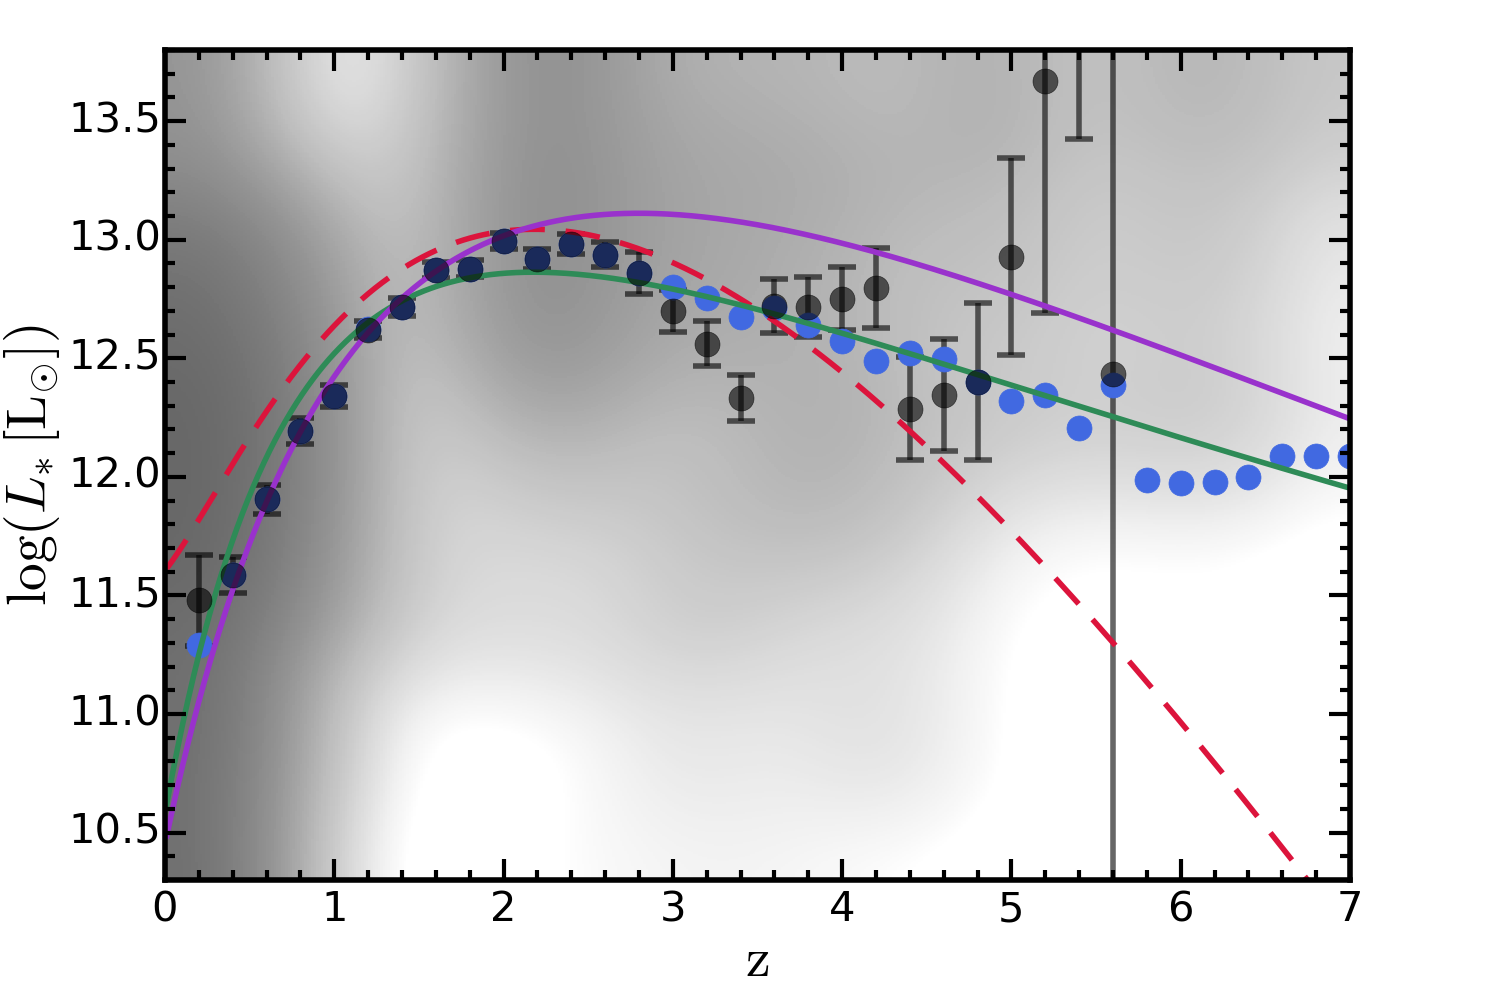
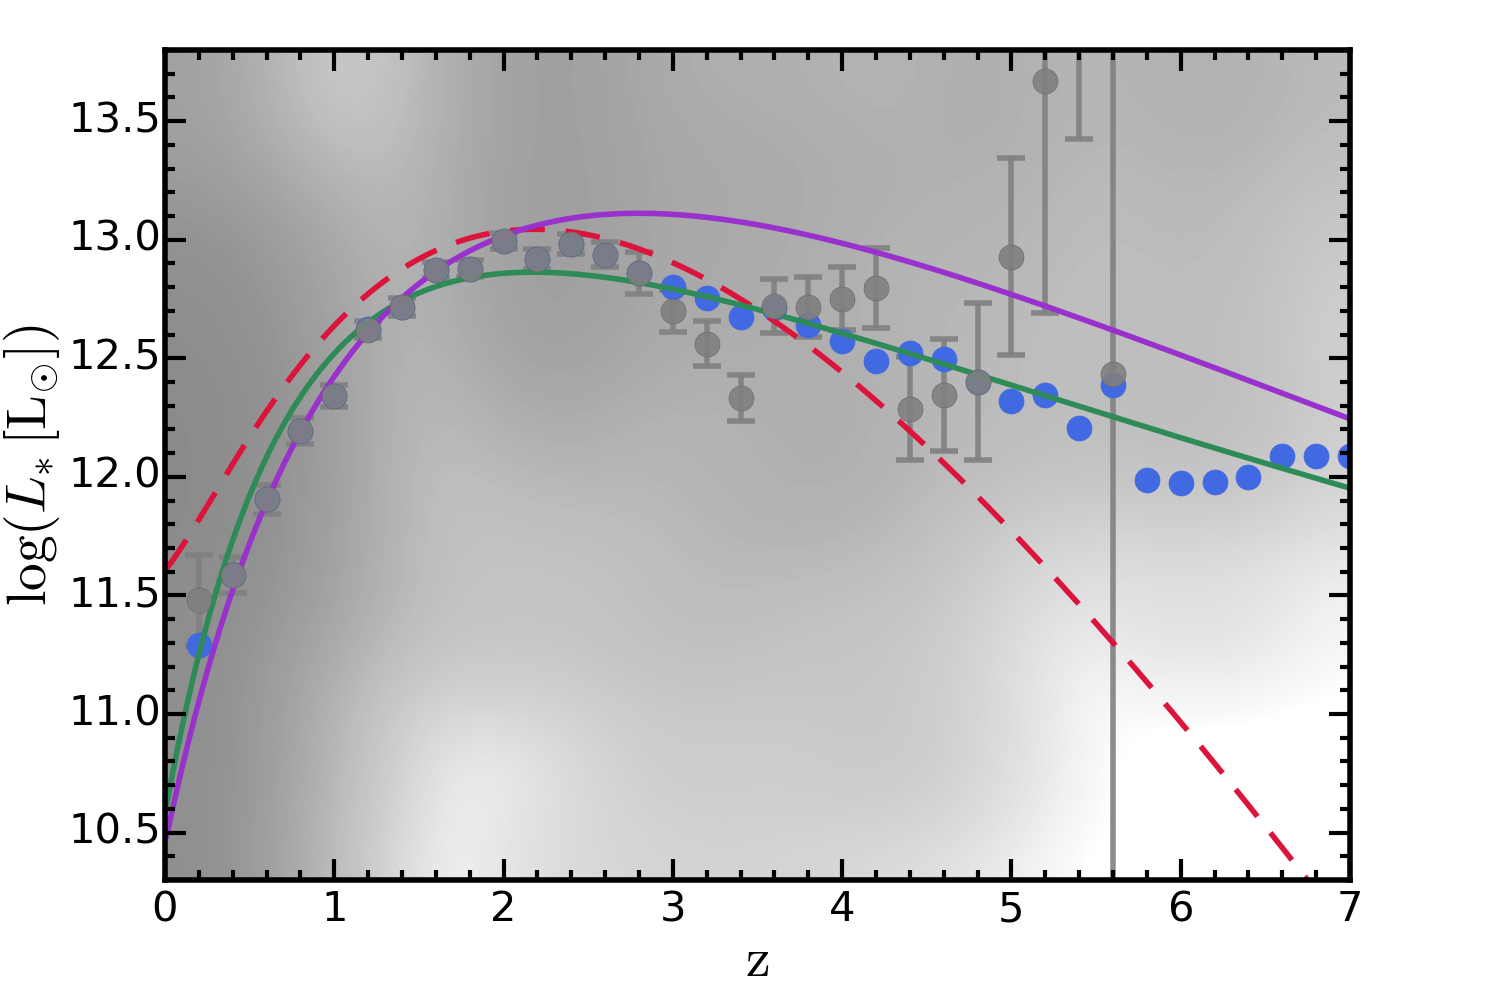
reg

diff --git a/plots/integrated_background/codes/plot.py b/plots/integrated_background/codes/plot.py
@@ -24,15 +24,15 @@ c_extenstion = CDLL(homepath+'codes/c_lib/convolve.so')
 convolve_c = c_extenstion.convolve
 convolve_c.restype = ctypes.POINTER(ctypes.c_double * N_bol_grid)
 ##############
-c_extenstion1 = CDLL(homepath+'codes/c_lib/specialuse/CTK_convolve.so')
+c_extenstion1 = CDLL(homepath+'codes/c_lib/specialuse/CTK_convolve.so')   #only convolve CTK objects
 convolve_c1 = c_extenstion1.convolve
 convolve_c1.restype = ctypes.POINTER(ctypes.c_double * N_bol_grid)
 
-c_extenstion2 = CDLL(homepath+'codes/c_lib/specialuse/CTNabs_convolve.so')
+c_extenstion2 = CDLL(homepath+'codes/c_lib/specialuse/CTNabs_convolve.so') #only convolve absorbed CTN objects
 convolve_c2 = c_extenstion2.convolve
 convolve_c2.restype = ctypes.POINTER(ctypes.c_double * N_bol_grid)
 
-c_extenstion3 = CDLL(homepath+'codes/c_lib/specialuse/CTNunabs_convolve.so')
+c_extenstion3 = CDLL(homepath+'codes/c_lib/specialuse/CTNunabs_convolve.so') #only convolve unabsorbed CTN objects
 convolve_c3 = c_extenstion3.convolve
 convolve_c3.restype = ctypes.POINTER(ctypes.c_double * N_bol_grid)
 ##############
@@ -77,7 +77,7 @@ def cumulative_emissivity(L_nu,Phi_nu,L_limit_low,L_limit_up,nu):
 		return np.power(10.,logphi(x))*np.power(10.,x)/nu
 
 	result = quad(emis, L_limit_low, L_limit_up)[0]*np.power(10.,L_solar)
-	#return romberg(emis, L_limit_low, L_limit_up, divmax=20)*np.power(10.,L_solar)
+	#result = romberg(emis, L_limit_low, L_limit_up, divmax=20)*np.power(10.,L_solar)
 	#if np.isfinite(result) == False:
 	#	print L_nu
 	#	print Phi_nu
@@ -113,7 +113,7 @@ zcenters = (zbins[1:]+zbins[:-1])/2.
 deltaz= zbins[5]-zbins[4]
 
 Intensity = np.zeros((len(E_list),4))
-unit_convertion = 1e-7/(1000.*con.e.value)
+unit_convertion = 1e-7/(1000.*con.e.value) #erg to keV
 
 for i in range(len(E_list)):
 	for j in range(len(convolver_list)):
@@ -135,10 +135,10 @@ ax.plot(E_list, nu_list * Intensity[:,2] * unit_convertion, '--', dashes=(25,15)
 ax.plot(E_list, nu_list * Intensity[:,3] * unit_convertion, '--', dashes=(25,15), c='deepskyblue', label=r'$\rm AGN$ ($\rm CTN,\,unabsorbed$)')
 
 data=np.genfromtxt("Hopkins2007.dat",names=["x","y"])
-ax.plot(data["x"],data["y"]+2.,'--',dashes=(25,15),c='gray',label=r'$\rm Hopkins+$ $\rm 2007$')
+ax.plot(data["x"],data["y"]+2.,'--',dashes=(25,15),c='crimson',label=r'$\rm Hopkins+$ $\rm 2007$')
 
 data=np.genfromtxt("ajello2008.dat",names=True)
-ax.errorbar(data['E'],data['CXB'],xerr=data['dE'],yerr=data['dCXB'],c='crimson',mec='crimson',capsize=0,capthick=0,linestyle='none',marker='.',lw=2,ms=1,label=r'$\rm Ajello+$ $\rm 2008$')
+ax.errorbar(data['E'],data['CXB'],xerr=data['dE'],yerr=data['dCXB'],c='gray',mec='gray',capsize=0,capthick=0,linestyle='none',marker='.',lw=2,ms=1,label=r'$\rm Ajello+$ $\rm 2008$')
 
 data=np.genfromtxt("churazov2007.dat",names=True)
 ax.errorbar(data['E'],data['CXB'],xerr=(data['E']-data['Elo'],data['Eup']-data['E']),yerr=(data['CXB']-data['lo'],data['up']-data['CXB']),c='seagreen',mec='seagreen',capsize=0,capthick=0,linestyle='none',marker='.',lw=2,ms=1,label=r'$\rm Churazov+$ $\rm 2007$')

diff --git a/codes/bolometric_correction/genensemble.py b/codes/bolometric_correction/genensemble.py
@@ -9,7 +9,7 @@ import matplotlib.pyplot as plt
 
 from scipy.stats import binned_statistic
 
-def returnIR_to_UV(sed2500, slope):
+def returnIR_to_UV(sed2500, slope): #generate the SED with an optical slope
 	data1=np.genfromtxt(datapath+"K13_SED.dat",names=["lognu","logall"],)
 	freq1=10**data1['lognu']
 	lamb1=con.c.value/(10**data1['lognu'])*1e10
@@ -30,8 +30,9 @@ def returnIR_to_UV(sed2500, slope):
 	sed1 = np.append( sed2_ir + scale, sed1)
 
 	sed1 = sed1[lamb1 > 1e4]
-	lamb1= lamb1[lamb1 > 1e4]
+	lamb1= lamb1[lamb1 > 1e4]  
 
+	# optical and UV SED is approximated by a broken power-law here
 	optical_slope = slope
 	lamb_op= np.linspace(1e4, 700., 100)
 	sed_op = sed1[-1] + (optical_slope-1) * (np.log10(lamb_op) - np.log10(lamb1[-1]))
@@ -41,7 +42,7 @@ def returnIR_to_UV(sed2500, slope):
 	
 	#UV construction
 	UV_end  =912.
-	UVslope =1.70
+	UVslope =1.70 #the EUV slope is fixed
 	
 	lamb1,sed1 = lamb1[lamb1>UV_end],sed1[lamb1>UV_end]
 	
@@ -57,12 +58,14 @@ def returnIR_to_UV(sed2500, slope):
 	return lamb1, sed1+totscale
 
 def returnXray(sed2500, gamma, alphaox_disp):
+	#generate the X-ray SED with a photon index gamma and assuming a deviation from the fiducial value of alpha_ox
 	f2500 = np.power(10.,sed2500)/(con.c.value/2500./1e-10)
 
 	alphaox = -0.107*np.log10(f2500) + 1.739 + alphaox_disp
 
 	f2kev=10**(alphaox/0.384)*f2500
-	
+
+	#interpolate between precalculated X-ray SEDs/ extrapolate if outside	
 	if (gamma<photon_index_list.max()) and (gamma>=photon_index_list.min()):
 		pup = photon_index_list[photon_index_list>gamma][0]
 		plo = photon_index_list[photon_index_list<=gamma][-1]
@@ -124,7 +127,7 @@ def returnall(sed2500, slope, gamma, alphaox_disp):
 
 	logL1450 = tophat( sedall, freqall, con.c.value/(1500e-10), con.c.value/(1400e-10))
 
-	logLIR = tophat( sedall, freqall, con.c.value/((15+1.)*1e-6), con.c.value/((15-1)*1e-6))
+	logLIR = tophat( sedall, freqall, con.c.value/((15+1.)*1e-6), con.c.value/((15-1.)*1e-6))
 
 	Lbol= integrate( sedall, freqall, con.c.value/(30.*1e-6), 500*1000.*con.e.value/con.h.value)
 	return  np.log10(Lbol), np.log10(LHX), np.log10(LSX), logLB, logL1450, logLIR
@@ -138,10 +141,10 @@ sigma_ox, ox_best = 0.1, 0
 np.random.seed(4367)
 Nsamples = 100000
 
-par1=np.random.normal(sl_best, sigma_sl, size=Nsamples)
-par2=np.random.normal(pi_best, sigma_pi, size=Nsamples)
-par3=np.random.normal(ox_best, sigma_ox, size=Nsamples)
-par5=np.random.uniform(-5,15,size=Nsamples)+L_solar
+par1=np.random.normal(sl_best, sigma_sl, size=Nsamples) #optical slope
+par2=np.random.normal(pi_best, sigma_pi, size=Nsamples) #photon index
+par3=np.random.normal(ox_best, sigma_ox, size=Nsamples) #alpha ox deviation
+par5=np.random.uniform(-5,15,size=Nsamples)+L_solar   #sed2500
 
 Lbols   = np.zeros( Nsamples )
 HXcorrs = np.zeros( Nsamples )

diff --git a/codes/bolometric_correction/calc_correction.py b/codes/bolometric_correction/calc_correction.py
@@ -7,7 +7,7 @@ from scipy.integrate import quad
 from scipy.interpolate import interp1d
 import matplotlib.pyplot as plt
 def returnIR_to_UV_H07(sed2500):
-	'''
+	''' # overlay optical SEDs with emission lines
 	data1=np.genfromtxt(datapath+"OpticalSED.dat",names=["lognu","logall"],)
 	lamb1=con.c.value/(10**data1['lognu'])*1e10
 	sed1 =data1['logall']
@@ -58,13 +58,13 @@ def returnXray_H07(sed2500):
 	sed3 = sed3 + scale
 	return lamb3[lamb3<50], sed3[lamb3<50]
 
-def returnIR_to_UV(sed2500):
+def returnIR_to_UV(sed2500):  #return the UV to IR SED
 	data1=np.genfromtxt(datapath+"K13_SED.dat",names=["lognu","logall"],)
 	freq1=10**data1['lognu']
 	lamb1=con.c.value/(10**data1['lognu'])*1e10
 	sed1 =data1['logall']
 	
-	#IR construction
+	#IR construction, using the R06 SED at the wavelengths beyond the coverage of K13
 	IR_end=lamb1[0]
 	data2=np.genfromtxt(datapath+"R06_SED.dat",names=["lognu","logall","sigall","blue"],)
 	lamb2=con.c.value/(10**data2['lognu'])*1e10
@@ -85,7 +85,7 @@ def returnIR_to_UV(sed2500):
 	lamb1,sed1 = lamb1[lamb1>UV_end],sed1[lamb1>UV_end]
 	
 	lambUV= np.linspace(UV_end, 600.,100)
-	sedUV = sed1[-1] + (UVslope-1) * (np.log10(lambUV) - np.log10(lamb1[-1]))
+	sedUV = sed1[-1] + (UVslope-1) * (np.log10(lambUV) - np.log10(lamb1[-1])) #extrapolate to EUV with a power-law
 	
 	lamb1= np.append( lamb1, lambUV)
 	sed1 = np.append( sed1 , sedUV)
@@ -95,13 +95,13 @@ def returnIR_to_UV(sed2500):
 
 	return lamb1, sed1+totscale
 
-def returnXray(sed2500):
+def returnXray(sed2500): #return the X-ray SED
 	f2500 = np.power(10.,sed2500)/(con.c.value/2500./1e-10)
 
 	#beta, C = 0.721, 4.531	
 	#A, Cprime = 0.384*(1-beta), 0.384*C
 	#alphaox = -A*np.log10(f2500)+Cprime
-	alphaox = -0.107*np.log10(f2500)+1.739
+	alphaox = -0.107*np.log10(f2500)+1.739 #fiducial model
 
 	f2kev=10**(alphaox/0.384)*f2500
 	data3=np.genfromtxt("xspec_lib/Xspec_1_9.dat",names=["E","f"],)	
@@ -162,7 +162,7 @@ def returnall(sed2500):
 
 	logL1450 = tophat( sedall, freqall, con.c.value/(1500e-10), con.c.value/(1400e-10))
 
-	logLIR = tophat( sedall, freqall, con.c.value/((15+1.)*1e-6), con.c.value/((15-1)*1e-6))
+	logLIR = tophat( sedall, freqall, con.c.value/((15+1.)*1e-6), con.c.value/((15-1.)*1e-6))
 
 	Lbol= integrate( sedall, freqall, con.c.value/(30.*1e-6), 500*1000.*con.e.value/con.h.value)
 

diff --git a/codes/bolometric_correction/corr_ensemble/plot.py b/codes/bolometric_correction/corr_ensemble/plot.py
@@ -39,7 +39,7 @@ ax = fig.add_axes([0.11,0.12,0.79,0.83])
 #medians,_,_ = binned_statistic(f['BOL'], f['HX'], statistic="median", bins=bins)
 sigmas,_,_ = binned_statistic(f['BOL'], f['HX'], statistic=std, bins=bins)
 ax.plot(bincenter,sigmas,'.', c='seagreen', mec='seagreen', marker='o', markersize=15)
-ax.plot( x_fit, sigma_H07(x_fit, 0.06, 0.10, 0.08), '--', dashes=(25,15), c='crimson'  )
+ax.plot( x_fit, sigma_H07(x_fit, 0.06, 0.10, 0.08), '--', dashes=(25,15), c='seagreen'  )
 
 pbest,_=curve_fit(new_fit_func2, bincenter, sigmas, p0=(0.06, 0.05, 42, 2), maxfev=10000)
 print 'HX:', pbest
@@ -48,7 +48,7 @@ ax.plot(x_fit, new_fit_func2(x_fit,*pbest),'-',c='seagreen' )
 ######################
 sigmas,_,_ = binned_statistic(f['BOL'], f['SX'], statistic=std, bins=bins)
 ax.plot(bincenter,sigmas,'.', c='chocolate', mec='chocolate',  marker='o', markersize=15)
-ax.plot( x_fit, sigma_H07(x_fit, 0.046, 0.10, 0.08), '--',dashes=(25,15),  c='seagreen'  )
+ax.plot( x_fit, sigma_H07(x_fit, 0.046, 0.10, 0.08), '--',dashes=(25,15),  c='chocolate'  )
 
 pbest,_=curve_fit(new_fit_func2, bincenter, sigmas, p0=(0.06, 0.05, 42, 2), maxfev=10000)
 print 'SX:', pbest
@@ -74,7 +74,7 @@ ax.plot(x_fit, new_fit_func2(x_fit,*pbest),'-',c='darkorchid' )
 ######################
 sigmas,_,_ = binned_statistic(f['BOL'], f['IR'], statistic=std, bins=bins)
 ax.plot(bincenter,sigmas,'.', c='crimson', mec='crimson', marker='o', markersize=15)
-ax.plot( x_fit, sigma_H07(x_fit, 0.07, -0.17, 0.086), '--', dashes=(25,15), c='chocolate'  )
+ax.plot( x_fit, sigma_H07(x_fit, 0.07, -0.17, 0.086), '--', dashes=(25,15), c='crimson'  )
 
 pbest,_=curve_fit(new_fit_func2, bincenter, sigmas, p0=(0.06, 0.05, 42, 2), maxfev=10000)
 print 'IR', pbest

diff --git a/plots/BH_mass_density/codes/plot.py b/plots/BH_mass_density/codes/plot.py
@@ -15,8 +15,10 @@ from ctypes import *
 import ctypes
 import sys
 
+# parameters of the H07 model
 parameters_init = np.array([0.41698725, 2.17443860, -4.82506430, 13.03575300, 0.63150872, -11.76356000, -14.24983300, -0.62298947, 1.45993930, -0.79280099])
 
+# best-fit in our global fit
 fit_evolve=np.genfromtxt("../../Fit_parameters/codes/zevolution_fit_global.dat",names=True)
 paraid, pglobal, pglobal_err = fit_evolve['paraid'], fit_evolve['value'], (fit_evolve['uperr']+fit_evolve['loerr'])/2.
 zlist=np.linspace(0.1,7,100)
@@ -48,14 +50,14 @@ def cumulative_lum(L_bol,Phi_bol,L_limit_low,L_limit_up):
 		return np.power(10.,logphi(x)) * 10**(x+L_solar)
 	return romberg(func,L_limit_low,L_limit_up,divmax=20)
 
-eps = 0.1
+eps = 0.1 #our fiducial choice of the radiative efficiency
 def rhoBH(zstart=7):
 	zlist = np.linspace(zstart,0,101)
 	rholist = 0.0*zlist
 	rholist[0] = 1e-30
 	for i,z in enumerate(zlist):
 		if i!=0:
-			K = 1./(cosmo.H(z).value*(1000./1e6/con.pc.value)*(1+z))/eps/con.c.value**2
+			K = (1-eps)/(cosmo.H(z).value*(1000./1e6/con.pc.value)*(1+z))/eps/con.c.value**2 #prefactor
 			L_bol, Phi_bol = get_model_lf_global(pglobal, z)
 			rholist[i] = rholist[i-1] + K * cumulative_lum(L_bol, Phi_bol, 43-L_solar, 48-L_solar)*1e-7 * np.abs(zlist[i]-zlist[i-1])  
 	rholist = rholist/(con.M_sun.value)
@@ -123,7 +125,7 @@ ax.xaxis.set_minor_locator(xm_locator)
 ax.tick_params(labelsize=30)
 ax.tick_params(axis='x', pad=7.5)
 ax.tick_params(axis='y', pad=2.5)
-ax.minorticks_on()
+#ax.minorticks_on()
 plt.savefig("../figs/bh_mass_density.pdf",fmt='pdf')
 #plt.show()
 

diff --git a/plots/Fit_parameters/codes/plot.py b/plots/Fit_parameters/codes/plot.py
@@ -220,11 +220,11 @@ x,y = np.meshgrid( np.linspace(0,7,pixel+1), np.linspace(10.3,13.8,pixel+1) )
 #cmap = plt.get_cmap('magma_r')
 cmap = plt.get_cmap('Greys')
 pos = ax.pcolormesh(x, y, np.transpose(image), cmap=cmap, 
-	norm=matplotlib.colors.Normalize(vmin=medi-0.2*(medi-mini),vmax=maxi+3.*(maxi-medi)),alpha=1)
+	norm=matplotlib.colors.Normalize(vmin=medi-0.5*(medi-mini),vmax=maxi+3.*(maxi-medi)),alpha=1)
 ####################################################
 
 data=np.genfromtxt("../../../codes/lf_fit/output/fit_at_z_nofix.dat",names=True)
-ax.errorbar(data["z"],data["L_s"],yerr=data['err4'],linestyle='',marker='o',c='gray',mec='gray',ms=18,capsize=10,capthick=4,alpha=1)
+ax.errorbar(data["z"],data["L_s"],yerr=data['err4'],linestyle='',marker='o',c='gray',mec='dimgray',ms=18,capsize=10,capthick=4,alpha=0.9)
 
 data=np.genfromtxt("../../../codes/lf_fit/output/fit_at_z_fix.dat",names=True)
 ax.plot(data["z"],data["L_s"],linestyle='',marker='o',c='royalblue',mec='royalblue',ms=18)

diff --git a/plots/cumulative_density/codes/plot.py b/plots/cumulative_density/codes/plot.py
@@ -13,8 +13,10 @@ from ctypes import *
 import ctypes
 import sys
 
+# parameters of the H07 model
 parameters_init = np.array([0.41698725, 2.17443860, -4.82506430, 13.03575300, 0.63150872, -11.76356000, -14.24983300, -0.62298947, 1.45993930, -0.79280099])
 
+# local best-fits
 data=np.genfromtxt("../../../codes/lf_fit/output/fit_at_z_fix.dat",names=True)
 pgamma1, pgamma1_err  = data["gamma1"], data["err1"]
 pgamma2, pgamma2_err  = data["gamma2"], data["err2"]
@@ -23,6 +25,7 @@ pLbreak, pLbreak_err  = data["L_s"],    data["err3"]
 pz=data['z']
 zpoints=np.array(pz)
 
+# global best-fit
 fit_evolve=np.genfromtxt("../../Fit_parameters/codes/zevolution_fit_global.dat",names=True)
 paraid, pglobal, pglobal_err = fit_evolve['paraid'], fit_evolve['value'], (fit_evolve['uperr']+fit_evolve['loerr'])/2.
 zlist=np.linspace(0.1,7,100)

diff --git a/codes/lf_fit/lf_shape.py b/codes/lf_fit/lf_shape.py
@@ -40,7 +40,7 @@ T0 = np.polynomial.chebyshev.Chebyshev((1,0,0,0))
 T1 = np.polynomial.chebyshev.Chebyshev((0,1,0,0))
 T2 = np.polynomial.chebyshev.Chebyshev((0,0,1,0))
 T3 = np.polynomial.chebyshev.Chebyshev((0,0,0,1))
-def polynomial(z,p,n=3):
+def polynomial(z,p,n=3): #Chebyshev polynomials
         xsi=1.+z
         if n==1: return p[0]*T0(xsi)+p[1]*T1(xsi)
         elif n==2: return p[0]*T0(xsi)+p[1]*T1(xsi)+p[2]*T2(xsi)
@@ -48,7 +48,7 @@ def polynomial(z,p,n=3):
                 return p[0]*T0(xsi)+p[1]*T1(xsi)+p[2]*T2(xsi)+p[3]*T3(xsi)
         else: return False
 
-def doublepower(z,p):
+def doublepower(z,p): #double power law, definition slightly different from the DPL LF
         xsi=1.+z
         zref=p[1]
         return 2*p[0]/(np.power(xsi/(1+zref),p[2]) + np.power(xsi/(1+zref),p[3]))
